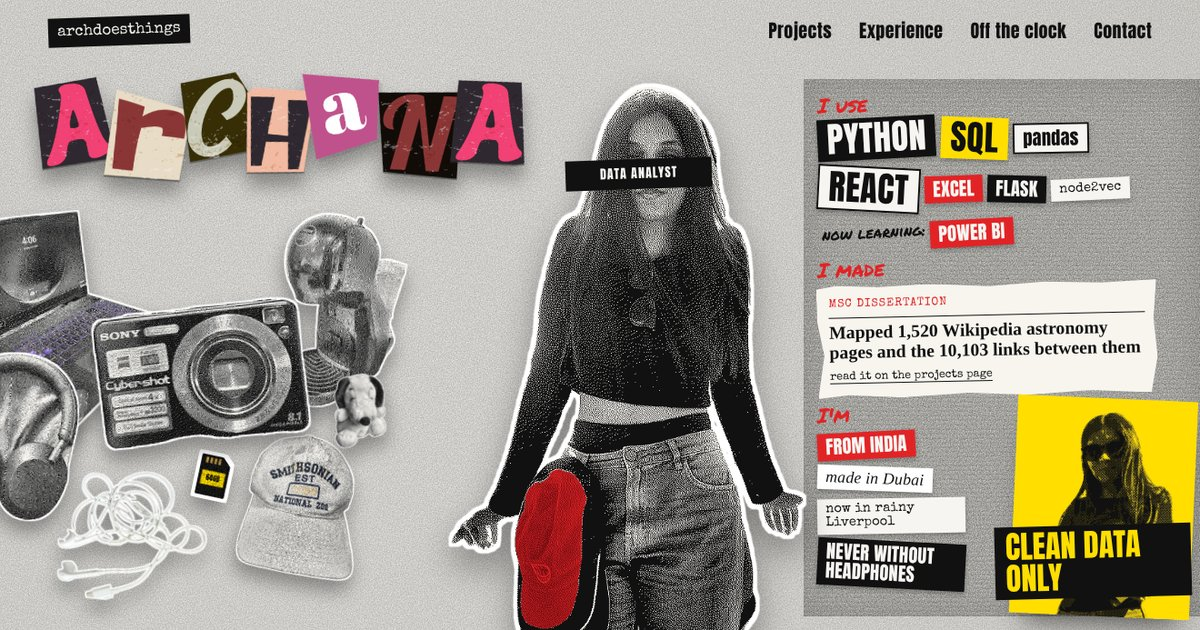
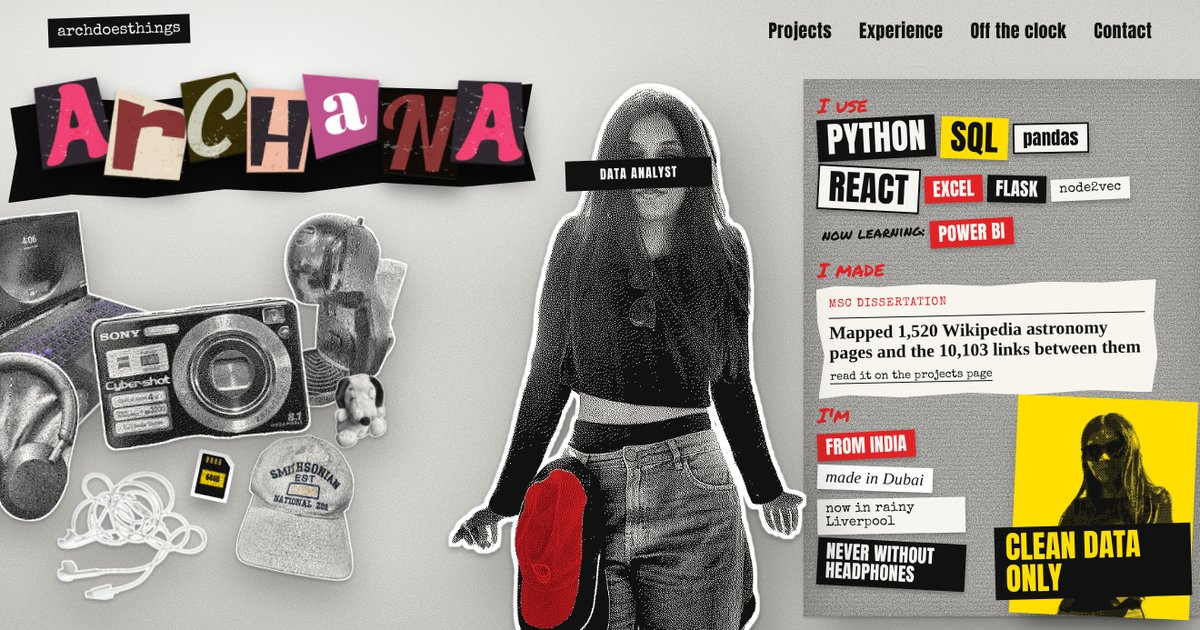
content fixes

diff --git a/src/styles.css b/src/styles.css
@@ -40,7 +40,6 @@ p { margin: 0 0 1em; }
   overflow: hidden; clip: rect(0 0 0 0); white-space: nowrap; border: 0;
 }
 
-/* top bar */
 .top { display: flex; justify-content: space-between; align-items: center; gap: 16px; padding: 18px var(--gutter); flex-wrap: wrap; position: relative; z-index: 10; }
 .top-name { font-family: var(--type); font-size: 17px; text-decoration: none; background: var(--ink); color: var(--paper); padding: 2px 10px 3px; transform: rotate(-2deg); }
 .top-name:hover { color: var(--yellow); }
@@ -48,7 +47,6 @@ p { margin: 0 0 1em; }
 .top nav a { font-family: var(--display); font-size: 20px; letter-spacing: .02em; text-decoration: none; }
 .top nav a:hover { color: var(--paper); background: var(--ink); }
 
-/* hero */
 .hero {
   position: relative; margin: 0 auto; container-type: inline-size;
   width: min(100%, 1800px, calc((100svh - 64px) * 2.1)); min-width: min(100%, 900px); aspect-ratio: 2.1 / 1;
@@ -61,7 +59,6 @@ p { margin: 0 0 1em; }
 .desk:hover { pointer-events: auto; }
 .desk-photo { height: auto; filter: drop-shadow(0 12px 10px rgba(0,0,0,.35)); user-select: none; }
 
-/* pile edit mode, only on the dev server with ?edit */
 .desk-editing { z-index: 20; }
 .desk.has-note { z-index: 30; }
 .desk-live { padding: 0; border: 0; background: none; cursor: pointer; text-decoration: none; }
@@ -178,7 +175,6 @@ p { margin: 0 0 1em; }
   transform: rotate(-2deg); transition: transform .45s cubic-bezier(.2,.9,.3,1.3), opacity .3s;
 }
 
-/* intro */
 .intro { max-width: calc(var(--measure) + var(--gutter) * 2); padding: clamp(56px, 6vw, 84px) var(--gutter) 0; }
 .lede { font-family: var(--type); font-size: clamp(21px, 2vw, 26px); line-height: 1.5; background: var(--paper-2); padding: 18px 22px; box-shadow: 0 10px 20px -12px rgba(0,0,0,.4); transform: rotate(-.6deg); }
 .intro p { color: var(--ink-2); }
@@ -199,7 +195,6 @@ p { margin: 0 0 1em; }
 .sticker-link.yellow:hover, .sticker-link.white:hover { color: var(--ink); }
 .sticker-link.red:hover { color: var(--paper-2); }
 
-/* sections */
 .block { padding: clamp(80px, 9vw, 130px) var(--gutter) clamp(30px, 4vw, 60px); position: relative; }
 .block > * { max-width: 1300px; }
 .block.dark { margin-top: clamp(70px, 8vw, 110px); background: var(--noise), var(--ink); color: var(--paper); clip-path: polygon(0 22px, 12% 0, 30% 18px, 52% 0, 71% 20px, 88% 4px, 100% 16px, 100% calc(100% - 16px), 84% 100%, 63% calc(100% - 20px), 41% 100%, 22% calc(100% - 18px), 0 100%); padding-bottom: clamp(90px, 9vw, 130px); }
@@ -210,9 +205,7 @@ h2, .page-title { font-family: var(--display); font-weight: 400; font-size: clam
 .dark .block-sub { color: #c9c8c2; }
 h3 { font-family: var(--display); font-weight: 400; font-size: clamp(30px, 3.2vw, 44px); margin: 0 0 28px; line-height: 1; text-transform: uppercase; }
 
-/* projects */
 .board { list-style: none; margin: 0; padding: 14px 0 0; display: grid; grid-template-columns: repeat(5, 1fr); gap: 40px 32px; }
-/* 5 projects: one row when there's room, otherwise 2 then 3, otherwise the first one on its own then pairs */
 @media (max-width: 1440px) { .board { grid-template-columns: repeat(6, 1fr); } .board li { grid-column: span 2; } .board li:nth-child(-n+2) { grid-column: span 3; } }
 @media (max-width: 900px) { .board { grid-template-columns: 1fr 1fr; } .board li, .board li:nth-child(-n+2) { grid-column: auto; } .board li:first-child { grid-column: 1 / -1; } }
 .board li { transform: rotate(var(--tilt)); }
@@ -252,7 +245,6 @@ h3 { font-family: var(--display); font-weight: 400; font-size: clamp(30px, 3.2vw
 .case-body > div .case-stack { display: block; margin-top: 18px; font-family: var(--type); font-size: 14px; color: var(--mid); }
 .case-link { font-weight: 600; }
 
-/* experience */
 .sheet {
   max-width: 920px; margin-top: 36px; padding: clamp(18px, 3vw, 34px) clamp(20px, 3.4vw, 44px);
   background: var(--noise-soft), var(--paper-2); transform: rotate(.5deg);
@@ -280,7 +272,6 @@ h3 { font-family: var(--display); font-weight: 400; font-size: clamp(30px, 3.2vw
 .about p { font-size: 20px; color: var(--ink-2); }
 .about p:nth-child(2)::first-letter { font-family: var(--display); font-size: 70px; float: left; line-height: 1; margin: 2px 12px 0 0; padding: 0 12px; background: var(--red); color: var(--paper-2); }
 
-/* off the clock */
 .hobby { margin-top: clamp(50px, 6vw, 80px); }
 .hobby-head { display: flex; align-items: center; justify-content: space-between; gap: 20px; margin-bottom: 28px; }
 .hobby-head h3 { margin: 0; }
@@ -409,10 +400,8 @@ h3 { font-family: var(--display); font-weight: 400; font-size: clamp(30px, 3.2vw
 .rewatch li.is-top .rw-bar { background: var(--red); }
 .theme-note { margin: -6px 0 8px; font-family: var(--marker); font-size: 22px; color: var(--yellow); transform: rotate(-2deg); transform-origin: left; }
 
-/* contact */
 .contact { padding: clamp(110px, 12vw, 160px) var(--gutter) 100px; max-width: 1000px; }
 
-/* separate pages */
 .page { min-height: calc(100svh - 160px); }
 .block.page { padding-top: clamp(50px, 6vw, 90px); }
 .otc .hobby { scroll-margin-top: 20px; }
@@ -507,7 +496,6 @@ h3 { font-family: var(--display); font-weight: 400; font-size: clamp(30px, 3.2vw
   *, *::before, *::after { animation: none !important; transition: none !important; scroll-behavior: auto !important; }
 }
 
-/* photo placements */
 .intro { max-width: 1720px; }
 .intro-row { display: grid; grid-template-columns: minmax(0, 1fr) clamp(300px, 32vw, 520px) clamp(220px, 19vw, 330px); gap: clamp(30px, 4vw, 60px); align-items: start; }
 .intro-row > div { max-width: var(--measure); }
@@ -563,7 +551,6 @@ h3 { font-family: var(--display); font-weight: 400; font-size: clamp(30px, 3.2vw
 .stickers-break { flex-basis: 100%; height: 0; }
 @media (max-width: 640px) { .stickers { gap: 12px 10px; } .sticker-link { padding-left: 12px; padding-right: 12px; } }
 
-/* depth: soft light from the top left, darker edges, deeper shadows. delete this block to go back */
 body {
   background:
     radial-gradient(ellipse 70% 60% at 22% 12%, rgba(255,255,255,.75), rgba(255,255,255,0) 65%),
@@ -576,7 +563,6 @@ body {
 .wall { box-shadow: inset 0 0 40px rgba(0,0,0,.15), 0 2px 3px rgba(0,0,0,.2), 14px 26px 40px -8px rgba(0,0,0,.35); }
 .cutout img { filter: drop-shadow(0 2px 1px rgba(0,0,0,.3)) drop-shadow(6px 12px 12px rgba(0,0,0,.25)); }
 
-/* torn black paper behind the name */
 .name-strip {
   position: absolute; left: .5%; top: 5%; width: 44%; height: 18%; z-index: 6; pointer-events: none;
   background: var(--noise), var(--ink); transform: rotate(-2deg);

diff --git a/src/data.js b/src/data.js
@@ -1,5 +1,3 @@
-// everything you'd want to edit lives in this file
-
 export const me = {
   name: 'Archana',
   role: 'data analyst & software developer',
@@ -10,7 +8,7 @@ export const me = {
     'I mostly work with Python, SQL, pandas and Excel on the data side, and React and Flask when something needs building. Learning Power BI right now :D',
   email: 'archanaasrinivasaa@gmail.com',
   github: 'https://github.com/archdoesthings',
-  linkedin: 'https://www.linkedin.com/in/archanaasrinivasa/', // swap
+  linkedin: 'https://www.linkedin.com/in/archanaasrinivasa/',
   cv: {
     data: '/cv/Archana-Srinivasa-Murthy-CV-Data-Analyst.pdf',
     dev: '/cv/Archana-Srinivasa-Murthy-CV-Software-Developer.pdf',
@@ -18,8 +16,6 @@ export const me = {
 }
 
 
-// side A = data, side B = software
-// art: network | bars | waveform | graph | hand | path
 export const tracks = [
   {
     side: 'B',
@@ -115,7 +111,6 @@ export const tracks = [
   },
 ]
 
-// fill in your real dates
 export const experience = [
   {
     when: '2026',
@@ -157,23 +152,18 @@ export const about = [
   "Most of my favourite projects end up somewhere between data and music. I care about the boring parts too: cleaning the data, checking the numbers, and writing it up so someone else can follow it.",
 ]
 
-// off the clock
 
-// put your pictures in public/photos and point src at them, e.g. '/photos/01.jpg'
-// leave src empty and it shows a placeholder frame
 export const photos = [
   { src: '/photos/skyline-tower.webp', caption: 'radio city tower', where: 'Liverpool' },
-  { src: '/photos/palms.webp', caption: 'private resort beach view', where: 'Andaman and Nicobar Island' },
+  { src: '/photos/palms.webp', caption: 'private resort beach view', where: 'Andaman and Nicobar Islands' },
   { src: '/photos/car-boot.webp', caption: 'barbecue with a couple of friends', where: 'Dubai' },
   { src: '/photos/beatles.webp', caption: 'the fab four', where: 'Liverpool' },
   { src: '/photos/race-cars.webp', caption: 'benz range', where: 'Mercedes-Benz Museum' },
   { src: '/photos/skyline-hill.webp', caption: 'view from everton park', where: 'Liverpool' },
   { src: '/photos/moon.webp', caption: 'precious moon', where: 'London' },
-  { src: '/photos/hogwarts-express.webp', caption: 'platform 9 3/4', where: 'Enroute Hogwarts' },
+  { src: '/photos/hogwarts-express.webp', caption: 'platform 9 3/4', where: 'en route to Hogwarts' },
 ]
 
-// link: paste a Spotify track link (Share > Copy song link) and it plays on the page
-// color is the cd cover colour
 export const songs = [
   { title: 'Going Shopping', artist: 'The Strokes', link: 'https://open.spotify.com/track/4dUOhTTMy4ITIbNQKPKYFP?si=eb9da6776b7a43b0', color: '#e22326' },
   { title: "She's Electric", artist: 'Oasis', link: 'https://open.spotify.com/track/4yCihiznWkDsbuIqf6mSiG?si=ae60d463e9fd4eda', color: '#111111' },

diff --git a/src/components/Doodle.jsx b/src/components/Doodle.jsx
@@ -1,8 +1,6 @@
-// little hint drawings for the guess the film game. all hand drawn shapes, nothing traced
 const ink = { fill: 'none', stroke: '#111', strokeWidth: 3, strokeLinecap: 'round', strokeLinejoin: 'round' }
 
 const doodles = {
-  // a desk with someone standing on it
   'Dead Poets Society': (
     <>
       <path {...ink} d="M22 92 H98 M28 92 V124 M92 92 V124 M22 86 H98 V92" />
@@ -11,7 +9,6 @@ const doodles = {
       <path {...ink} d="M30 24 l4 -6 M88 22 l-3 -7 M96 36 l6 -3" />
     </>
   ),
-  // hourglass and a ringed planet
   Interstellar: (
     <>
       <path {...ink} d="M24 30 H62 M24 118 H62 M28 30 C28 62 58 62 58 74 C58 86 28 86 28 118 M58 30 C58 62 28 62 28 74 C28 86 58 86 58 118" />
@@ -20,7 +17,6 @@ const doodles = {
       <ellipse {...ink} cx="88" cy="56" rx="26" ry="7" transform="rotate(-18 88 56)" />
     </>
   ),
-  // a dimming sun and a tiny ship heading for it
   'Project Hail Mary': (
     <>
       <circle {...ink} cx="70" cy="56" r="24" />
@@ -30,7 +26,6 @@ const doodles = {
       <path {...ink} strokeDasharray="2 5" d="M42 118 C 52 106, 52 96, 60 84" />
     </>
   ),
-  // a boat that's sailed into the sky, with stairs up to a door
   'The Truman Show': (
     <>
       <path {...ink} d="M24 34 c0 -8 12 -10 16 -4 c4 -6 16 -4 14 4 c4 2 2 8 -4 8 h-22 c-6 0 -8 -6 -4 -8 Z" />
@@ -43,7 +38,6 @@ const doodles = {
       <path {...ink} d="M4 114 q8 -5 16 0 t16 0 t16 0 t16 0 t16 0 t16 0 t16 0" />
     </>
   ),
-  // a dodgy id card
   Superbad: (
     <>
       <rect {...ink} x="14" y="40" width="92" height="58" rx="6" />
@@ -55,7 +49,6 @@ const doodles = {
       <text x="60" y="122" textAnchor="middle" fontFamily="Special Elite, monospace" fontSize="13" fill="#111">age: definitely 25</text>
     </>
   ),
-  // a striped tent and a top hat
   'The Greatest Showman': (
     <>
       <path {...ink} d="M16 108 L36 52 L60 30 L84 52 L104 108 Z" />
@@ -64,7 +57,6 @@ const doodles = {
       <path {...ink} d="M80 122 H112 M86 122 V104 H106 V122" />
     </>
   ),
-  // magnifying glass over a knife
   'Knives Out': (
     <>
       <path {...ink} d="M44 96 L100 30 L96 50 L52 104 Z" />
@@ -75,7 +67,6 @@ const doodles = {
       <path {...ink} d="M44 42 C 48 38, 54 38, 58 40" />
     </>
   ),
-  // an inky circle that's trying to say something
   Arrival: (
     <>
       <circle {...ink} strokeWidth="7" cx="60" cy="68" r="34" strokeDasharray="60 8 30 6 90 10" />

diff --git a/vite.config.js b/vite.config.js
@@ -3,7 +3,6 @@ import path from 'node:path'
 import { defineConfig } from 'vite'
 import react from '@vitejs/plugin-react'
 
-// lets the pile editor (/?edit) save positions. dev server only, never in the built site
 function deskLayoutSaver() {
   const file = path.resolve('src/deskLayout.json')
   return {
@@ -22,7 +21,6 @@ function deskLayoutSaver() {
             const data = JSON.parse(body)
             const ok = Object.values(data).every((v) => ['l', 't', 'w', 'r', 'z'].every((k) => typeof v[k] === 'number'))
             if (!ok) throw new Error('unexpected layout shape')
-            // one line per item so the file stays easy to read
             const lines = Object.entries(data).map(([k, v]) => `  ${JSON.stringify(k)}: ${JSON.stringify(v)}`)
             fs.writeFileSync(file, '{\n' + lines.join(',\n') + '\n}\n')
             res.end('ok')
@@ -36,7 +34,6 @@ function deskLayoutSaver() {
   }
 }
 
-// user site (archdoesthings.github.io) is served from the root, so base stays '/'
 export default defineConfig({
   plugins: [react(), deskLayoutSaver()],
   base: '/',

diff --git a/src/App.jsx b/src/App.jsx
@@ -10,7 +10,6 @@ import Weather from './components/Weather.jsx'
 import { Route, Glance } from './components/Side.jsx'
 import { me, tracks, experience, education, about, photos, songs, movies } from './data.js'
 
-// each page lives at #/name so it works on github pages without extra setup
 const pages = [
   { id: 'projects', label: 'Projects', title: "Things I've made" },
   { id: 'experience', label: 'Experience', title: "Where I've been" },
@@ -160,7 +159,6 @@ function Experience() {
 }
 
 function OffTheClock() {
-  // #/off-the-clock?go=music jumps straight to that section (used by the pile on the home page)
   useEffect(() => {
     const go = new URLSearchParams(location.hash.split('?')[1]).get('go')
     if (!go) return

diff --git a/src/components/Desk.jsx b/src/components/Desk.jsx
@@ -1,5 +1,3 @@
-// the pile of stuff in the hero. photos are pre-cut images in public/punk
-// positions live in src/deskLayout.json. run the dev server and open /?edit to move things
 import { useEffect, useRef, useState } from 'react'
 import saved from '../deskLayout.json'
 
@@ -135,7 +133,6 @@ export default function Desk() {
     setLayout((L) => ({ ...L, [d.id]: { ...L[d.id], l, t } }))
   }
   const up = () => { drag.current = null }
-  // react's wheel handler is passive, so attach our own to stop the page scrolling while resizing
   const selRef = useRef(sel)
   selRef.current = sel
   useEffect(() => {

diff --git a/src/components/Clippings.jsx b/src/components/Clippings.jsx
@@ -43,14 +43,12 @@ function Case({ t, caseRef }) {
 }
 
 export default function Clippings({ tracks }) {
-  // #/projects?show=<id> opens that card straight away
   const asked = new URLSearchParams(location.hash.split('?')[1]).get('show')
   const start = Math.max(0, tracks.findIndex((t) => t.id && t.id === asked))
   const [open, setOpen] = useState(start)
   const caseRef = useRef(null)
   const clicked = useRef(!!asked)
 
-  // only scroll after a click, not on first load
   useEffect(() => {
     if (!clicked.current) return
     const still = window.matchMedia('(prefers-reduced-motion: reduce)').matches

diff --git a/src/components/Shelf.jsx b/src/components/Shelf.jsx
@@ -1,12 +1,10 @@
 import { useEffect, useState } from 'react'
 
-// turns a normal spotify track link into the embed version
 function embedUrl(link) {
   const m = link?.match(/open\.spotify\.com\/(?:intl-[a-z]+\/)?(track|album|playlist)\/([A-Za-z0-9]+)/)
   return m ? `https://open.spotify.com/embed/${m[1]}/${m[2]}?theme=0` : null
 }
 
-// asks spotify for the album art in the visitor's browser. set `cover` in data.js to use your own image instead
 function useArt(link, own) {
   const [art, setArt] = useState(own || null)
   useEffect(() => {

diff --git a/src/components/Tickets.jsx b/src/components/Tickets.jsx
@@ -4,7 +4,6 @@ import Doodle from './Doodle.jsx'
 const tilts = [-2, 1.5, -1, 2, -1.5, 1, -2.5, 1.8]
 const papers = ['#ffde00', '#f6f4ee', '#e9e7e0', '#ffde00', '#f6f4ee', '#ffde00', '#e9e7e0', '#f6f4ee']
 
-// tally marks in groups of five
 function Tally({ n }) {
   const groups = Array.from({ length: Math.ceil(n / 5) }, (_, g) => Math.min(5, n - g * 5))
   return (

diff --git a/src/components/Weather.jsx b/src/components/Weather.jsx
@@ -1,6 +1,5 @@
 import { useEffect, useState } from 'react'
 
-// open-meteo is free and doesn't need a key
 const URL =
   'https://api.open-meteo.com/v1/forecast?latitude=53.41&longitude=-2.98&current=temperature_2m,weather_code&timezone=Europe%2FLondon'
 

diff --git a/src/components/RansomName.jsx b/src/components/RansomName.jsx
@@ -1,6 +1,5 @@
 import { useState } from 'react'
 
-// each letter has two cut-outs; clicking swaps between them
 const letters = [
   { ch: 'a', pick: 'vintage', alt: 'vivid', r: -5, y: 0 },
   { ch: 'r', pick: 'vintage', alt: 'vivid', r: 4, y: 14 },

diff --git a/src/components/Side.jsx b/src/components/Side.jsx
@@ -1,4 +1,3 @@
-// the side column on the experience page
 export function Route() {
   const ink = { fill: 'none', stroke: '#111', strokeWidth: 3, strokeLinecap: 'round' }
   const pin = (x, y) => (
